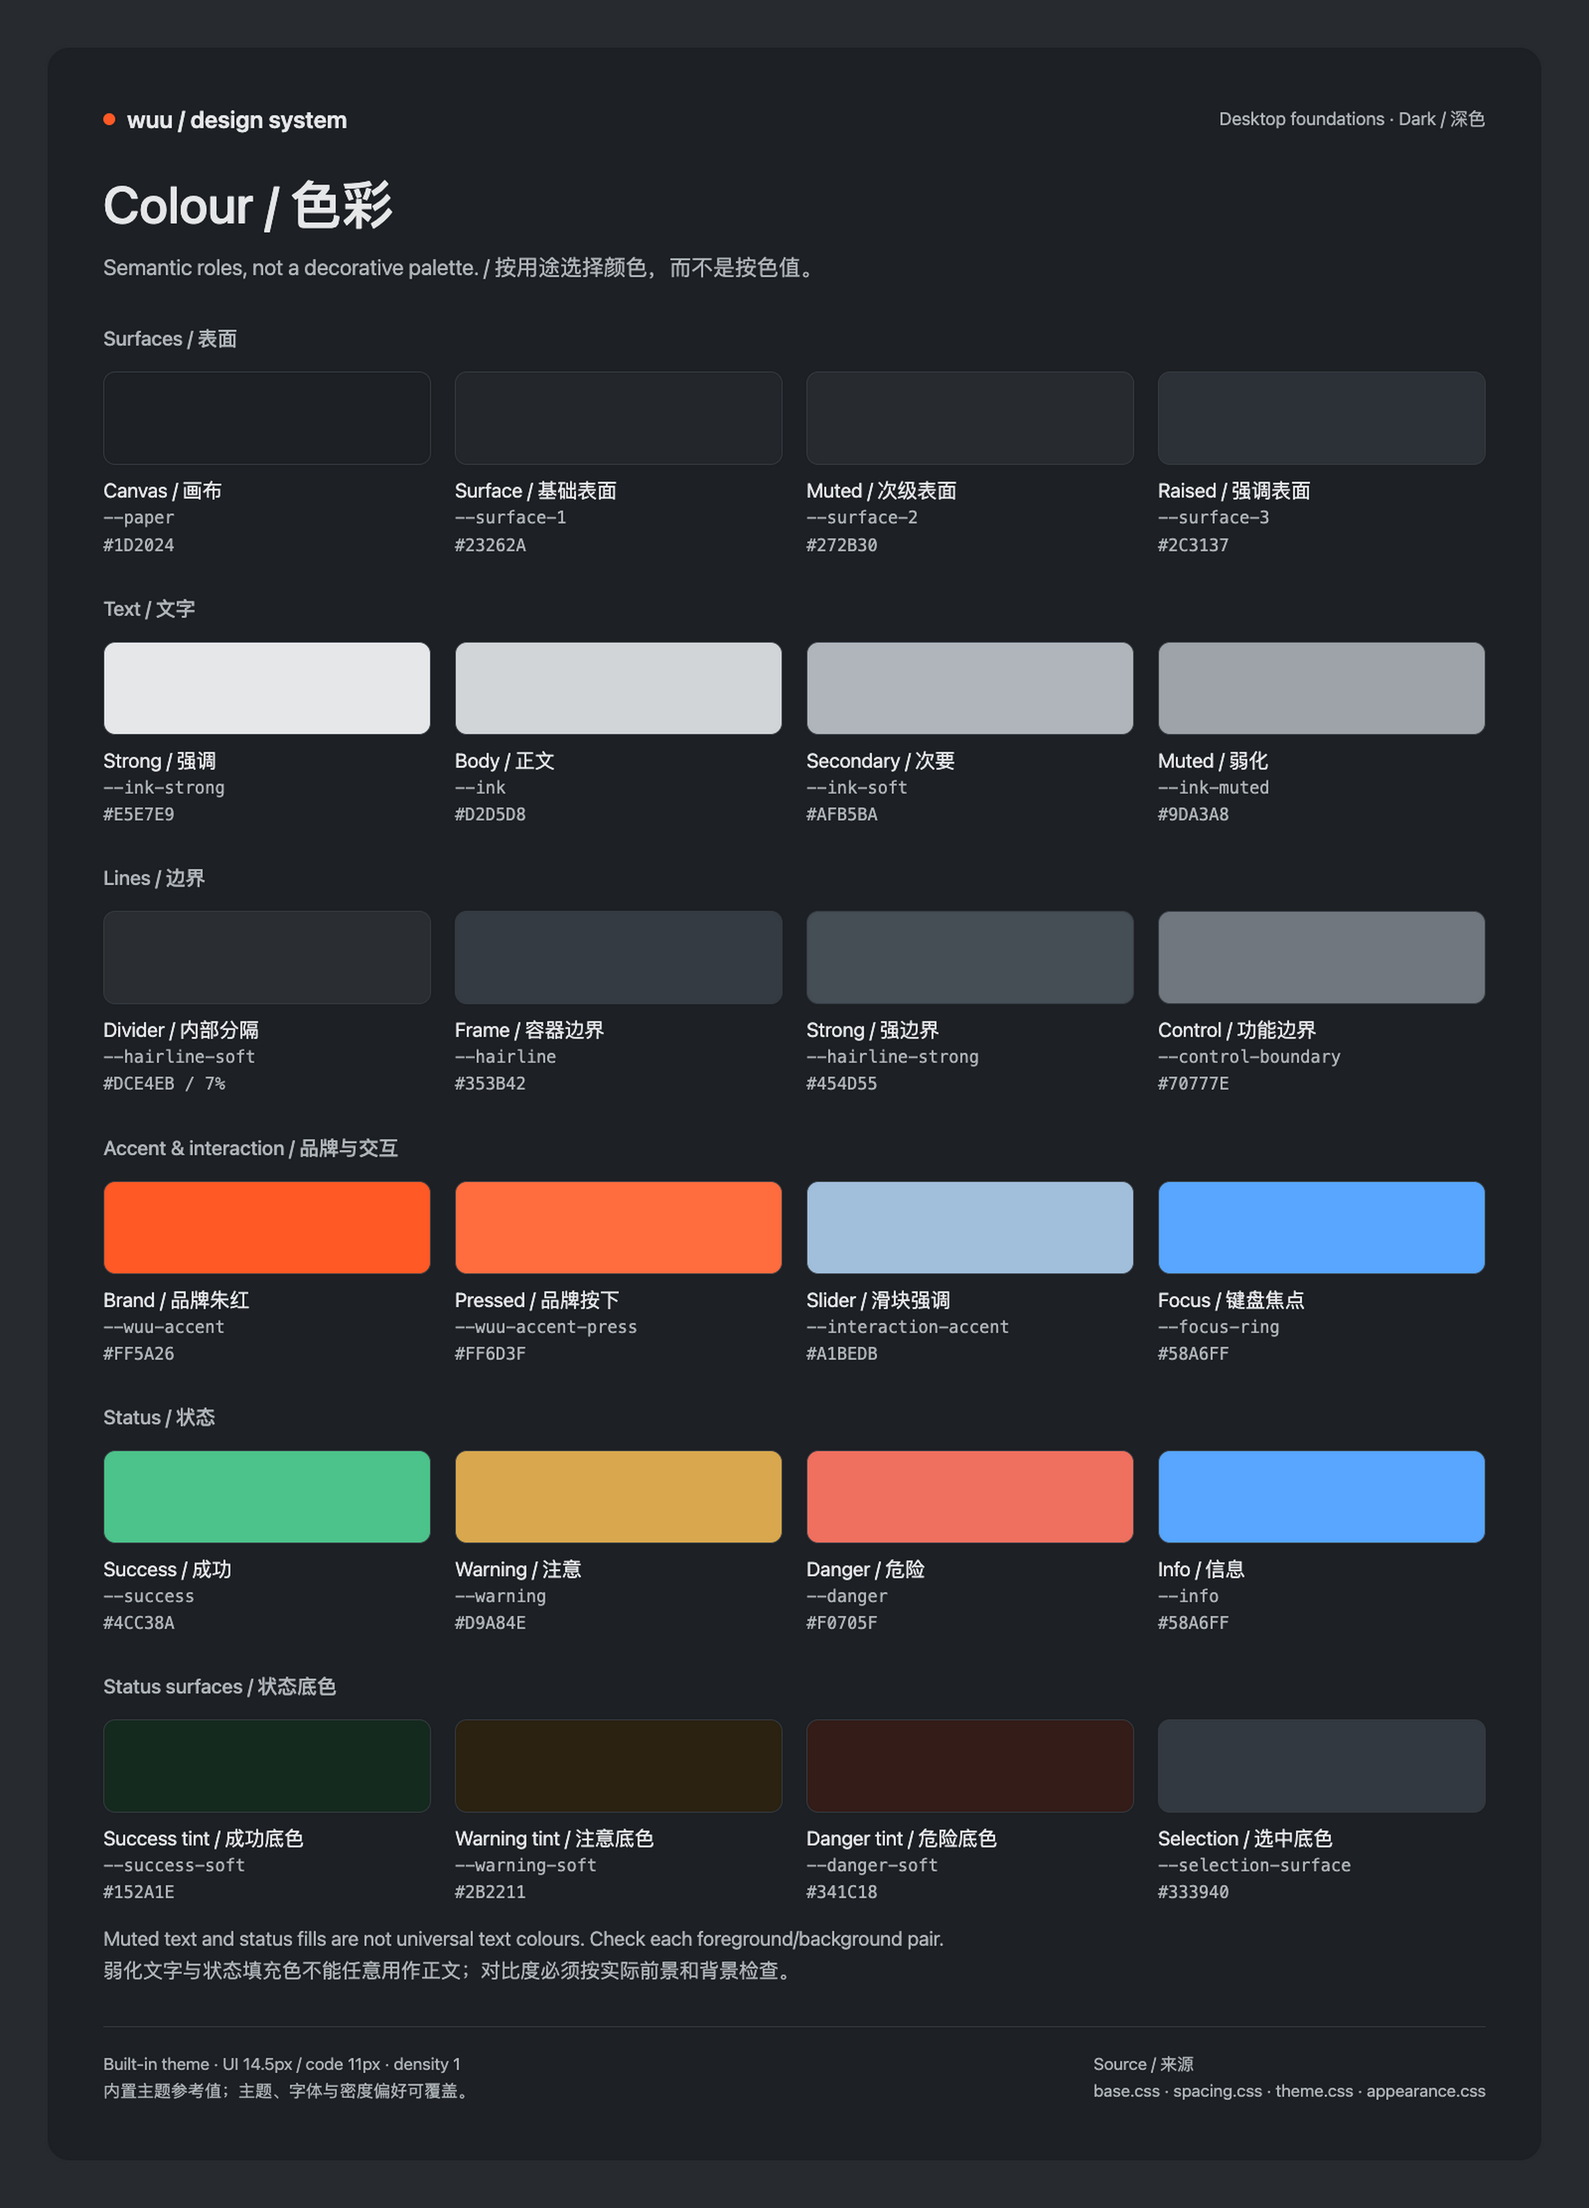
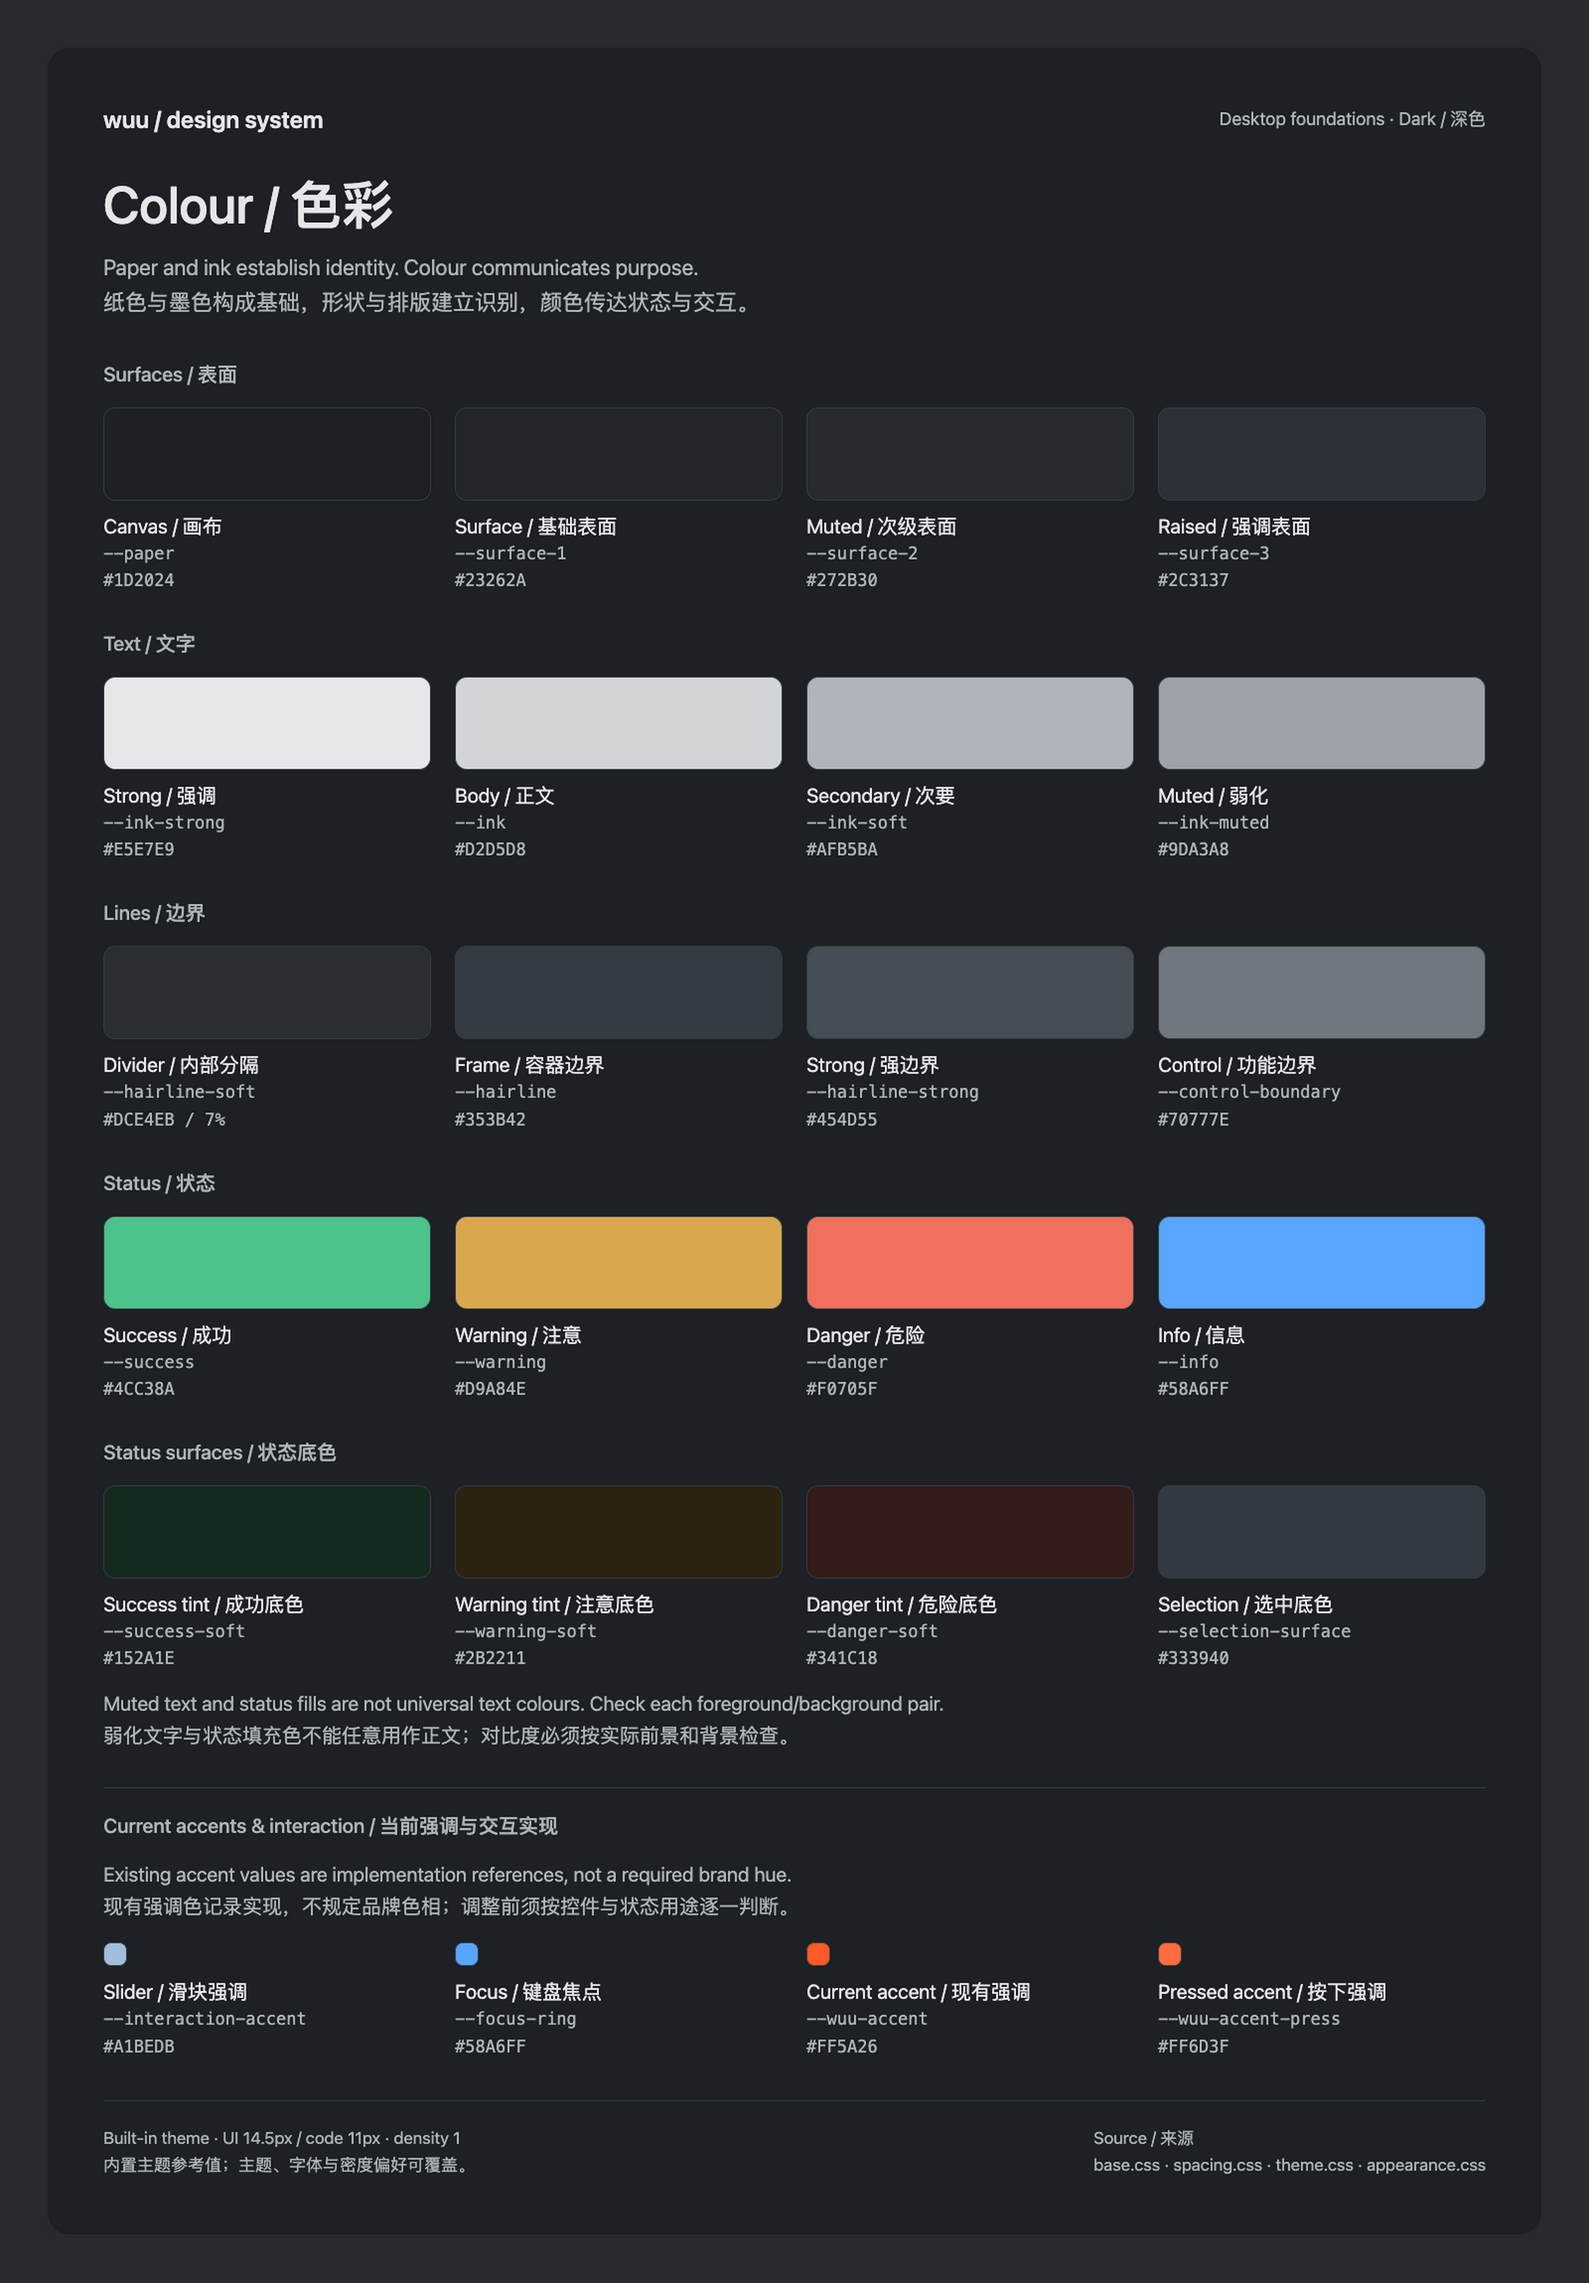
docs(design-system): establish monochrome-first brand foundations

diff --git a/docs/en/project/design-system.md b/docs/en/project/design-system.md
@@ -1,6 +1,6 @@
 # Wuu design system
 
-Wuu prioritizes sustained reading and frequent actions. Neutral surfaces carry content, vermillion provides selective brand emphasis, and semantic colors communicate status. Establish hierarchy with position, space, type size, and weight before adding borders or shadows.
+Wuu prioritizes sustained reading and frequent actions. Paper and ink tones form the foundation; shape and typography establish identity; color communicates status and necessary interaction cues. Establish hierarchy with position, space, type size, and weight before adding borders or shadows.
 
 This specification and its visual boards maintain the desktop foundations for designers, developers, and coding agents. They are not a reskin proposal or a claim that every existing screen already conforms. Native phone interfaces share the information and interaction principles, not literal desktop pixel dimensions.
 
@@ -14,7 +14,7 @@ The boards cover color, space/radius/elevation, and typography using Wuu's own v
 | Space, radius, elevation | [Full image](../assets/design-system/geometry-light.png) | [Full image](../assets/design-system/geometry-dark.png) |
 | Typography | [Full image](../assets/design-system/type-light.png) | [Full image](../assets/design-system/type-dark.png) |
 
-![Wuu light colors: surfaces, text, boundaries, brand, interaction, and status](../assets/design-system/colour-light.png)
+![Wuu light colors: neutral surfaces, text, boundaries, status, and current interaction tokens](../assets/design-system/colour-light.png)
 
 ![Wuu spacing scale, radius roles, elevation, and control size floors](../assets/design-system/geometry-light.png)
 
@@ -39,6 +39,14 @@ These are internal renderer roles, not all public API promises. Extensions use t
 
 ## Color
 
+### Identity and emphasis
+
+Wuu's identity is monochrome-first, with paper, ink, and neutral surfaces rather than a mandatory signature hue. The black-and-white app icon, consistent shapes, typography, and space provide recognition. Neutral does not mean a flat gray interface: use readable tonal contrast and clear hierarchy, with light and dark themes expressing the same roles.
+
+Brand identity, action emphasis, and status are separate concerns. Primary actions can use strong foreground/background contrast without a saturated brand fill. Links, keyboard focus, and selection need recognizable interaction cues; success, warning, and danger need distinct meanings. Color supports these purposes rather than decorating every heading or selected item. Never rely on color alone for an essential distinction.
+
+### Color roles
+
 | Role | Variables | Use |
 | --- | --- | --- |
 | Canvas and surfaces | `--paper`, `--surface-1` through `--surface-4` | Base, secondary, and emphasized surfaces; surface numbers are not shadow levels |
@@ -46,11 +54,16 @@ These are internal renderer roles, not all public API promises. Extensions use t
 | Quieter text | `--ink-tertiary`, `--ink-muted`, `--ink-faint` | Select by purpose; low contrast must not conceal crowding or carry essential information |
 | Three line tiers | `--hairline-soft`, `--hairline`, `--hairline-strong` | Within-surface separators, independent frames, stronger control boundaries; no local gray per line |
 | Functional boundary and focus | `--control-boundary`, `--focus-ring` | Identify controls and keyboard focus, distinct from decorative separators |
-| Brand and interaction | `--wuu-accent`, `--wuu-accent-press`, `--interaction-accent` | Vermillion for brand emphasis; a separate slider accent, with neutral navigation and reading surfaces |
 | Selection | `--selection-surface` | A clear selection surface, not a borrowed warning or success color |
 | Status | `--success`, `--warning`, `--danger`, `--info` | Success, caution, danger, information; combine with text or icons, never color alone |
 
 Success, warning, and danger tints are `--success-soft`, `--warning-soft`, and `--danger-soft`. Status colors are not general-purpose body colors or automatically readable on arbitrary fills. Use appropriate content roles such as `--ink-on-accent` on colored surfaces, then check the actual pair. Dark mode adjusts surfaces, text, and status independently rather than inverting light colors.
+
+### Current implementation accents
+
+The renderer currently defines `--wuu-accent` and `--wuu-accent-press` with vermillion defaults, plus `--interaction-accent` for sliders. These describe existing implementation, not a requirement that Wuu's brand be red. The boards retain their computed values in a compact implementation reference, separate from the neutral foundation and status palette.
+
+Existing accent uses include status indicators as well as controls. Review each use by purpose before changing it; do not globally replace red with gray or repurpose status tokens as brand colors. This specification does not change product styles or theme overrides.
 
 ## Typography
 
